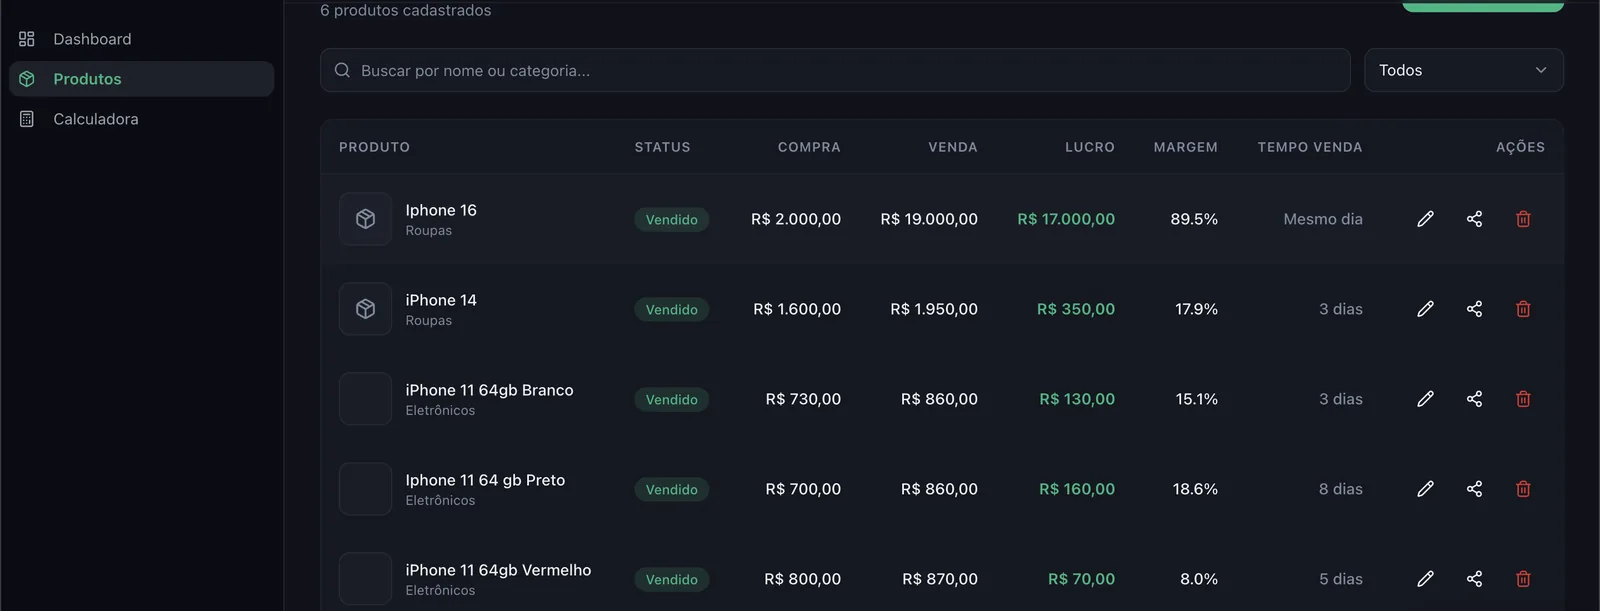
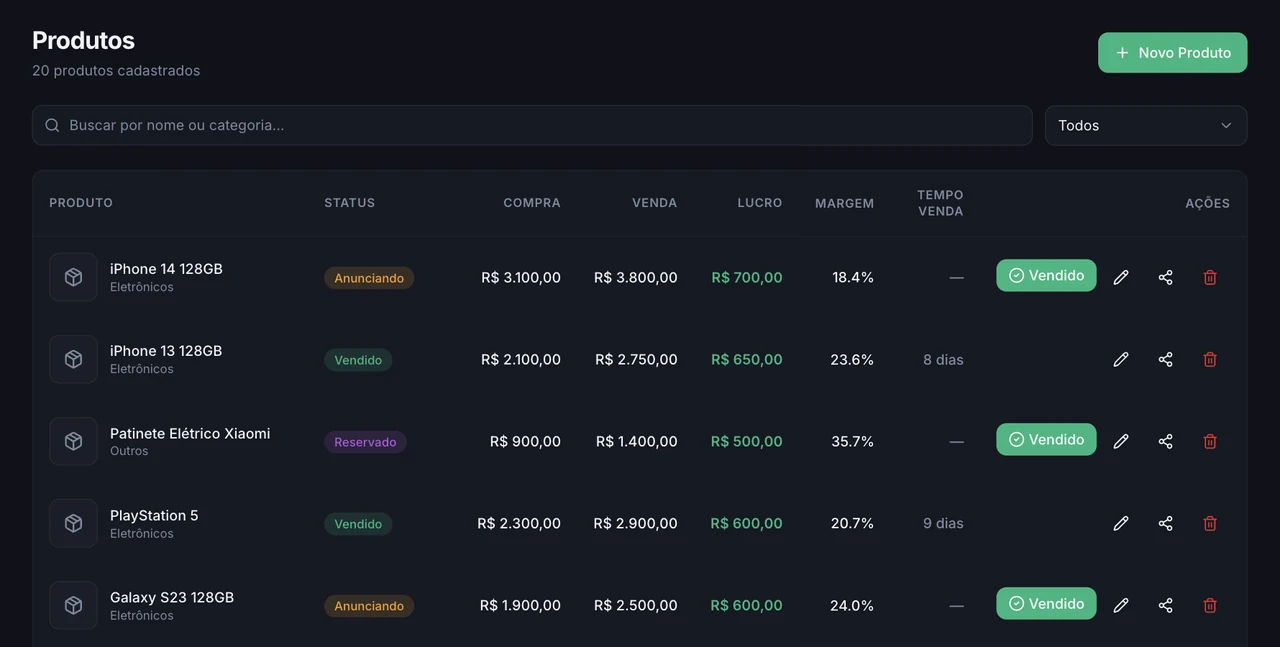
Replace app screenshots with new prints and add mobile versions
Each screenshot now has a desktop print (browser frame) and a phone print
(device frame) swapped below 760px via <picture>, so the app is readable on
mobile. Prints show the redesigned Dashboard with realistic example data and
match what each section's copy describes. Even feature rows now give the
image the wide column too.

diff --git a/index.html b/index.html
@@ -80,7 +80,10 @@
         <div class="device-frame__bar">
           <span></span><span></span><span></span>
         </div>
-        <img src="assets/images/app-dashboard.webp" alt="Dashboard do Brique Flow mostrando faturamento, lucro total, número de vendas e gráfico de resultados por período" width="1600" height="611" loading="eager">
+        <picture>
+          <source media="(max-width: 759px)" srcset="assets/images/app-dashboard-mobile.webp" width="600" height="941">
+          <img src="assets/images/app-dashboard.webp" alt="Dashboard do Brique Flow com o lucro dos últimos 30 dias em destaque, quanto sobrou de cada R$ 100 vendidos, faturamento e número de vendas comparados com o período anterior" width="2000" height="794" loading="eager">
+        </picture>
       </div>
     </div>
   </section>
@@ -203,7 +206,10 @@
           <div class="feature-row__media">
             <div class="device-frame device-frame--glow">
               <div class="device-frame__bar"><span></span><span></span><span></span></div>
-              <img src="assets/images/app-calculadora.webp" alt="Calculadora de lucro do Brique Flow mostrando resultado da venda, lucro líquido, margem, ROI e simulador de oferta" width="1600" height="611" loading="lazy">
+              <picture>
+                <source media="(max-width: 759px)" srcset="assets/images/app-calculadora-mobile.webp" width="600" height="1286">
+                <img src="assets/images/app-calculadora.webp" alt="Calculadora de lucro do Brique Flow com o investimento total, o lucro líquido, a margem e o ROI de um PlayStation 5, e o simulador mostrando o novo lucro com uma oferta mais baixa" width="1280" height="1130" loading="lazy">
+              </picture>
             </div>
           </div>
         </article>
@@ -217,7 +223,10 @@
           <div class="feature-row__media">
             <div class="device-frame device-frame--glow">
               <div class="device-frame__bar"><span></span><span></span><span></span></div>
-              <img src="assets/images/app-vendas.webp" alt="Dashboard do Brique Flow com vendas recentes e ranking dos produtos com maior lucro e maior margem" width="1600" height="802" loading="lazy">
+              <picture>
+                <source media="(max-width: 759px)" srcset="assets/images/app-vendas-mobile.webp" width="600" height="1146">
+                <img src="assets/images/app-vendas.webp" alt="Dashboard do Brique Flow com gráfico de faturamento e lucro por dia e o ranking dos produtos que deram mais lucro no período" width="1280" height="1043" loading="lazy">
+              </picture>
             </div>
           </div>
         </article>
@@ -231,7 +240,10 @@
           <div class="feature-row__media">
             <div class="device-frame device-frame--glow">
               <div class="device-frame__bar"><span></span><span></span><span></span></div>
-              <img src="assets/images/app-produtos.webp" alt="Tela de controle de produtos do Brique Flow com compra, venda, lucro, margem e tempo de venda de cada item" width="1600" height="611" loading="lazy">
+              <picture>
+                <source media="(max-width: 759px)" srcset="assets/images/app-produtos-mobile.webp" width="600" height="986">
+                <img src="assets/images/app-produtos.webp" alt="Lista de produtos do Brique Flow com o status de cada item (anunciando, vendido ou reservado), o valor de compra, de venda e o lucro" width="1280" height="647" loading="lazy">
+              </picture>
             </div>
           </div>
         </article>

diff --git a/styles.css b/styles.css
@@ -515,16 +515,22 @@ h1, h2, h3, h4 {
   }
 }
 
+/* No celular o <picture> troca para a print do app em formato de celular:
+   a moldura vira um aparelho e a barra de navegador some. Do 760px para cima,
+   print de computador numa janela de navegador. */
 .device-frame {
+  max-width: 340px;
+  margin-inline: auto;
+  padding: 6px;
   background: var(--color-card);
   border: 1px solid var(--color-border);
-  border-radius: var(--radius-lg);
+  border-radius: 30px;
   overflow: hidden;
   box-shadow: 0 0 1px 1px rgba(0, 230, 118, 0.15), 0 40px 100px -30px rgba(0, 230, 118, 0.25), 0 30px 80px -20px rgba(0, 0, 0, 0.6);
 }
 
 .device-frame__bar {
-  display: flex;
+  display: none;
   gap: 6px;
   padding: var(--space-md);
   border-bottom: 1px solid var(--color-border);
@@ -536,9 +542,24 @@ h1, h2, h3, h4 {
   background: var(--color-border);
 }
 
+.device-frame picture {
+  display: block;
+}
+
 .device-frame img {
   width: 100%;
   height: auto;
+  border-radius: 24px;
+}
+
+@media (min-width: 760px) {
+  .device-frame {
+    max-width: none;
+    padding: 0;
+    border-radius: var(--radius-lg);
+  }
+  .device-frame__bar { display: flex; }
+  .device-frame img { border-radius: 0; }
 }
 
 /* ============================================
@@ -716,6 +737,10 @@ h1, h2, h3, h4 {
 @media (min-width: 900px) {
   .feature-row {
     grid-template-columns: minmax(0, 0.85fr) minmax(0, 1.15fr);
+  }
+  /* A imagem fica sempre com a coluna larga, mesmo quando troca de lado. */
+  .feature-row:nth-child(even) {
+    grid-template-columns: minmax(0, 1.15fr) minmax(0, 0.85fr);
   }
   .feature-row:nth-child(even) .feature-row__text { order: 2; }
   .feature-row:nth-child(even) .feature-row__media { order: 1; }

diff --git a/CLAUDE.md b/CLAUDE.md
@@ -23,7 +23,7 @@ HTML, CSS e JS puros, sem npm. A única biblioteca é o GSAP, carregado do cdnjs
 - `index.html`: a página inteira. Seções: hero, benefícios, problema, solução, funcionalidades, como funciona, planos, FAQ, CTA final.
 - `styles.css`: estilos, mobile-first.
 - `script.js`: ano do rodapé, menu mobile, animações de entrada (GSAP, desligadas para quem pede menos movimento), accordion do FAQ e `APP_URL`. Todo link com a classe `js-app-link` recebe `APP_URL` (hoje `https://briqueflow.pages.dev/login`).
-- `assets/images/`: logo e screenshots reais do app (`.webp`). Estão desatualizadas, ver "Planos e links".
+- `assets/images/`: logo e screenshots reais do app (`.webp`). Cada print tem duas versões num `<picture>`: a de computador (`app-*.webp`, janela de navegador) e a de celular (`app-*-mobile.webp`, moldura de aparelho), trocadas abaixo de 760px.
 - `design-system/brique-flow/MASTER.md`: paleta, tipografia (Sora) e regras visuais. Seguir ao mexer no visual.
 - `docs/superpowers/specs/`: spec original. **Está desatualizada** no plano Free e nos botões "Começar grátis", que foram removidos.
 
@@ -36,7 +36,7 @@ Para ver localmente: `python3 -m http.server 8765` na pasta e abrir http://127.0
 - O acesso é liberado pelo e-mail: o cliente cria a conta em `https://briqueflow.pages.dev/cadastro` com o mesmo e-mail da compra. O FAQ "Como acesso depois de comprar?" explica isso.
 - Só prometer o que o app tem. Em 14/10/2026 ele tem: calculadora de lucro (margem, ROI, veredito, preço mínimo e simulador de negociação), produtos e vendas, dashboard (lucro comparado com o período anterior, gráfico, campeões de venda, estoque), meta do mês (de lucro ou de faturamento, com ritmo e projeção), dinheiro parado (produtos parados há mais de 15 dias), imagem para compartilhar o resultado do mês, anúncios gerados com IA (limite de 10 por dia, nunca prometer ilimitado), tema claro e escuro e instalar no celular como app.
 - A LP ainda não mostra meta do mês, dinheiro parado nem instalar como app (pendência do dono). O FAQ "Preciso instalar alguma coisa?" diz que funciona no navegador, o que continua certo, mas não cita que dá para instalar.
-- As screenshots de `assets/images/` são de 06/10/2026, de antes do redesenho do Dashboard (13/10). Trocar por prints novos do app ao atualizar a LP.
+- As screenshots de `assets/images/` são de 14/10/2026, já com o Dashboard novo. Os dados são de exemplo, cadastrados na conta do dono (20 produtos de brique e meta de outubro de R$ 4.000 de lucro). Para refazer uma print, usar essa mesma conta para os números baterem entre as imagens.
 
 ## Regras combinadas com o usuário
 
